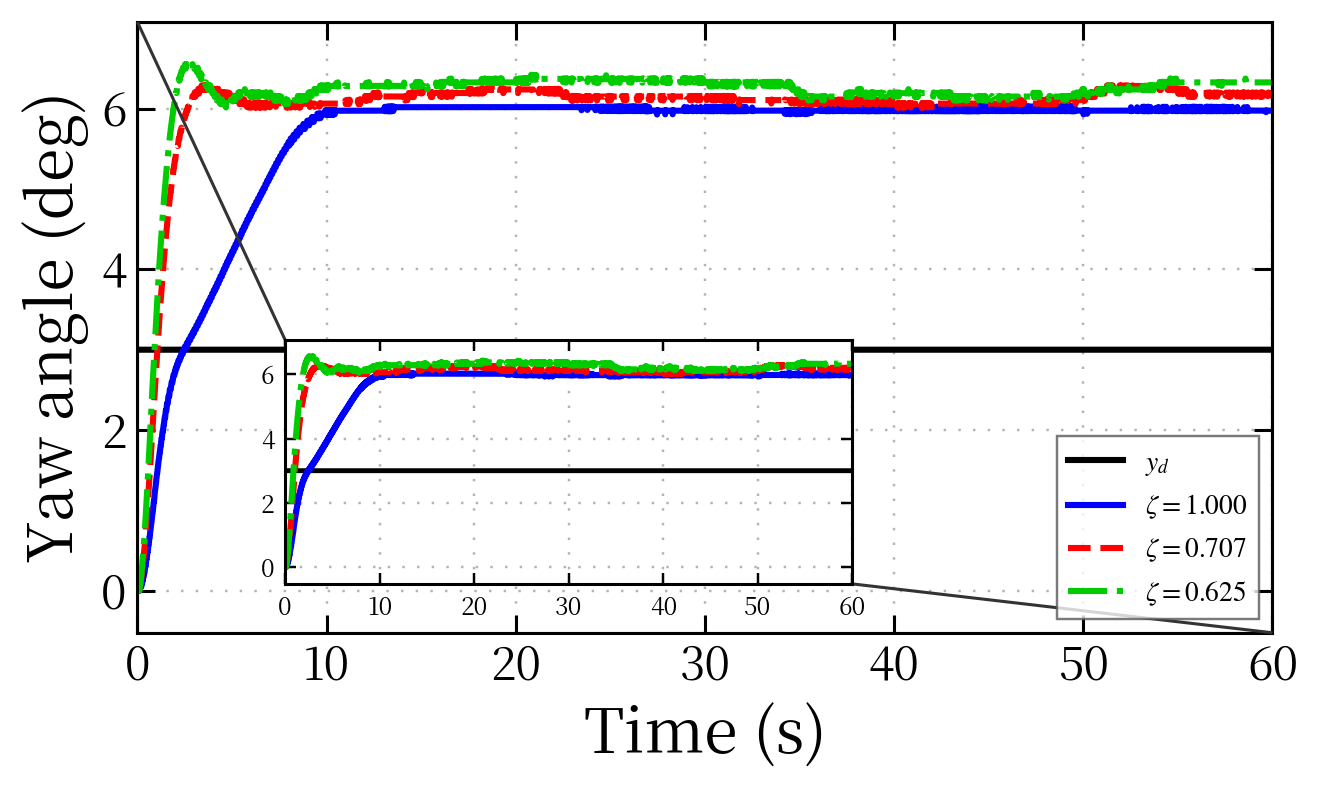
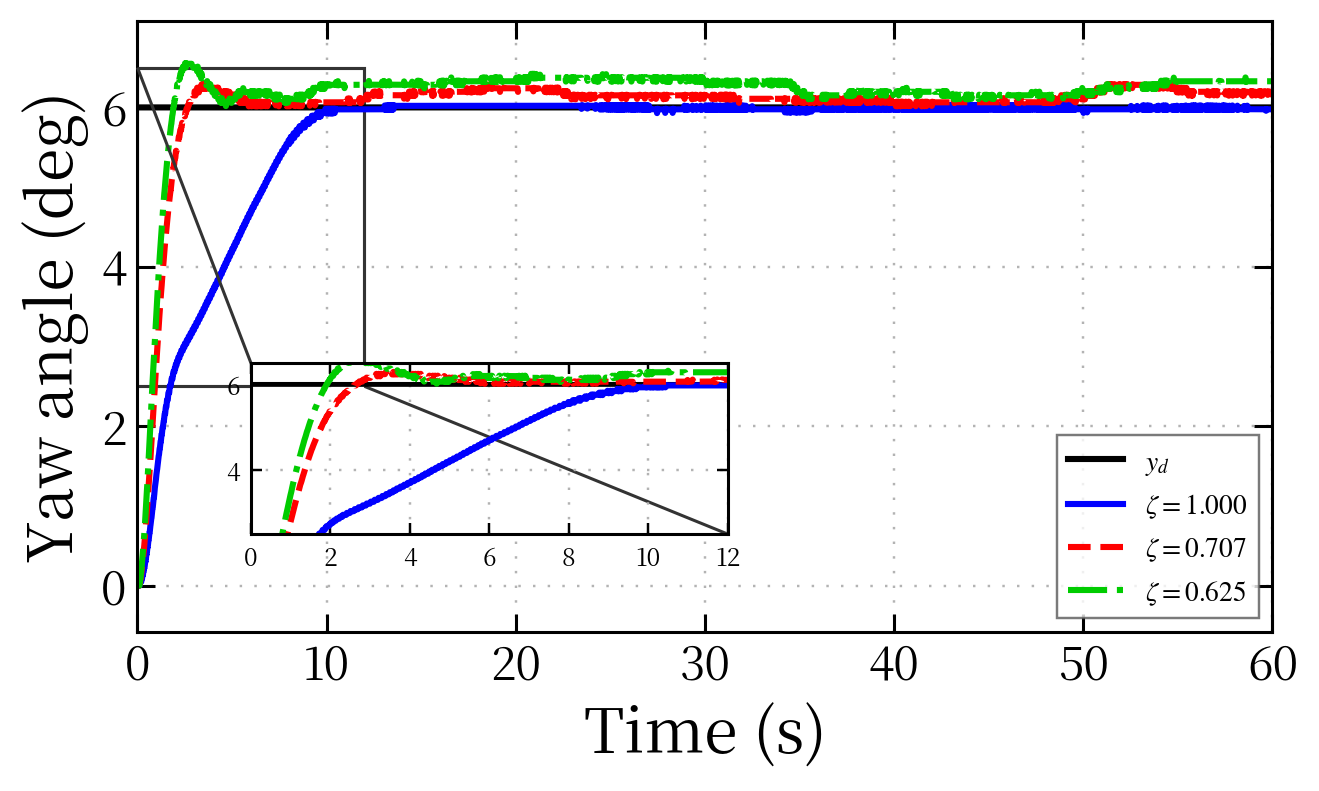
0406first_commited

diff --git a/hitbook/chinese/scripts/ch5_sat_exp_plot.py b/hitbook/chinese/scripts/ch5_sat_exp_plot.py
@@ -19,7 +19,8 @@ COLORS = {'1': '#0000FF', '0.707': '#FF0000', '0.625': '#00CC00'}
 LABELS = {'roll': 'Roll angle (deg)', 'pitch': 'Pitch angle (deg)', 'yaw': 'Yaw angle (deg)'}
 U_LABELS = {'roll': 'Roll control input (V)', 'pitch': 'Pitch control input (V)', 'yaw': 'Yaw control input (V)'}
 FOCUS_OVERRIDES = {
-    ('constant_sat', 'pitch', 'output'): {'window': (0.0, 10.8), 'y_bounds': (2.7, 5.4)},
+    ('constant_sat', 'pitch', 'output'): {'window': (0.0, 10.8), 'y_bounds': (2.7, 5.4), 'inset_rect': [0.10, 0.16, 0.42, 0.28]},
+    ('constant_sat', 'yaw', 'output'): {'window': (0.0, 12.0), 'y_bounds': (2.5, 6.5), 'inset_rect': [0.10, 0.16, 0.42, 0.28]},
 }
 DEFAULT_INSET_RECT = [0.13, 0.08, 0.50, 0.40]
 
@@ -53,7 +54,7 @@ def experimental_sine_reference(axis, t):
 
 def experimental_constant_reference(axis, t):
     if axis == 'yaw':
-        return np.full_like(t, 3.0)
+        return np.full_like(t, 6.0)
     if axis == 'pitch':
         return np.full_like(t, 5.0)
     if axis == 'roll':
@@ -182,6 +183,34 @@ def remap_time_segment(t, start_t, end_t, target_start, target_end):
 
 
 
+def paired_output_ylim(mode: str, axis: str):
+    all_series = []
+    for variant in ['base', 'sat']:
+        t, traces = load_axis(mode, variant, axis)
+        if mode == 'constant_sat':
+            y_ref = experimental_constant_reference(axis, t)
+        else:
+            y_ref = experimental_sine_reference(axis, t)
+        all_series.extend(list(traces.values()))
+        all_series.append(y_ref)
+    ymin = min(float(y.min()) for y in all_series)
+    ymax = max(float(y.max()) for y in all_series)
+    span = max(ymax - ymin, 1e-3)
+    return ymin - 0.08 * span, ymax + 0.08 * span
+
+
+def paired_control_ylim(mode: str, axis: str):
+    all_series = []
+    for variant in ['base', 'sat']:
+        _, traces = load_control(mode, variant, axis)
+        traces = scale_controls(traces, axis=axis, variant=variant)
+        all_series.extend(list(traces.values()))
+    ymin = min(float(y.min()) for y in all_series)
+    ymax = max(float(y.max()) for y in all_series)
+    span = max(ymax - ymin, 1e-3)
+    return ymin - 0.08 * span, ymax + 0.08 * span
+
+
 def pick_focus_window(mode: str, axis: str):
     t, base_traces = load_control(mode, 'base', axis)
     base_traces = scale_controls(base_traces, axis=axis, variant='base')
@@ -269,11 +298,8 @@ def plot_single(mode: str, axis: str, variant: str):
     for zeta_key, zeta_label in DAMPINGS:
         ax.plot(t, traces[zeta_key], label=fr'$\zeta={zeta_label}$', **styles[zeta_key])
     ax.set_xlim(0.0, t[-1])
-    series_for_limits = list(traces.values()) + ([y_ref] if y_ref is not None else [])
-    ymin = min(float(y.min()) for y in series_for_limits)
-    ymax = max(float(y.max()) for y in series_for_limits)
-    span = max(ymax - ymin, 1e-3)
-    ax.set_ylim(ymin - 0.08 * span, ymax + 0.08 * span)
+    ylow, yhigh = paired_output_ylim(mode, axis)
+    ax.set_ylim(ylow, yhigh)
     ax.set_xlabel('Time (s)')
     ax.set_ylabel(LABELS[axis])
     ax.grid(True, linestyle=(0, (1.0, 5.0)), color='0.7', linewidth=0.8)
@@ -319,21 +345,22 @@ def plot_control(mode: str, axis: str, variant: str):
     ax.axhline(SAT_LEVEL, color='black', linestyle=':', linewidth=1.4, label=r'$u_{\max}$')
     ax.axhline(-SAT_LEVEL, color='black', linestyle=':', linewidth=1.4)
     ax.set_xlim(0.0, t[-1])
-    ymin = min(float(y.min()) for y in traces.values())
-    ymax = max(float(y.max()) for y in traces.values())
-    span = max(ymax - ymin, 1e-3)
-    ax.set_ylim(ymin - 0.08 * span, ymax + 0.08 * span)
+    if axis == 'roll':
+        ax.set_ylim(-0.2, 0.55)
+    else:
+        ylow, yhigh = paired_control_ylim(mode, axis)
+        ax.set_ylim(ylow, yhigh)
     ax.set_xlabel('Time (s)')
     ax.set_ylabel(U_LABELS[axis])
     ax.grid(True, linestyle=(0, (1.0, 5.0)), color='0.7', linewidth=0.8)
     ax.tick_params(direction='in', length=6, width=1.0, top=True, right=True)
     leg = ax.legend(loc='lower right', frameon=True, fancybox=False, edgecolor='0.35')
     leg.get_frame().set_linewidth(0.8)
-    ax.text(0.03, 0.95, reference_label(axis), transform=ax.transAxes, va='top', ha='left',
-            bbox=dict(boxstyle='square,pad=0.20', fc='white', ec='0.35', lw=0.8), fontsize=10)
     if mode in ('constant_sat', 'sine_sat'):
-        focus_window = pick_focus_window(mode, axis)
-        add_focus_box_and_inset(ax, custom_t, traces, focus_window, yref=None, styles=styles, include_sat_lines=True)
+        override = FOCUS_OVERRIDES.get((mode, axis, 'output'))
+        focus_window = override['window'] if override else pick_focus_window(mode, axis)
+        inset_rect = override.get('inset_rect') if override else None
+        add_focus_box_and_inset(ax, custom_t, traces, focus_window, yref=None, styles=styles, include_sat_lines=True, inset_rect=inset_rect)
 
     mode_tag = 'const' if mode == 'constant_sat' else 'sine'
     out = OUT_DIR / f'ch5_{mode_tag}_{axis}_u_{variant}.png'

diff --git a/hitbook/chinese/scripts/ch5_exp2_plot.py b/hitbook/chinese/scripts/ch5_exp2_plot.py
@@ -94,6 +94,19 @@ def make_reference(mode: str, axis: str, t, traces):
     return experimental_sine_reference(axis, t)
 
 
+def paired_ylim(mode: str, axis: str):
+    all_series = []
+    for side in ['left', 'right']:
+        t, traces = load_column(mode, side, axis)
+        y_ref = make_reference(mode, axis, t, traces)
+        all_series.extend(list(traces.values()))
+        all_series.append(y_ref)
+    ymin = min(float(y.min()) for y in all_series)
+    ymax = max(float(y.max()) for y in all_series)
+    span = max(ymax - ymin, 1e-3)
+    return ymin - 0.08 * span, ymax + 0.08 * span
+
+
 def region_bounds(t, traces, window):
     t0, t1 = window
     mask = (t >= t0) & (t <= t1)
@@ -112,10 +125,8 @@ def plot_single(mode: str, side: str, axis: str):
     for label in ['1.000', '0.707', '0.625']:
         ax.plot(t, traces[label], label=fr'$\zeta={label}$', **STYLES[label])
     ax.set_xlim(0.0, float(t[-1]))
-    ymin = min(float(y.min()) for y in list(traces.values()) + [y_ref])
-    ymax = max(float(y.max()) for y in list(traces.values()) + [y_ref])
-    span = max(ymax - ymin, 1e-3)
-    ax.set_ylim(ymin - 0.08 * span, ymax + 0.08 * span)
+    ylow, yhigh = paired_ylim(mode, axis)
+    ax.set_ylim(ylow, yhigh)
     ax.set_xlabel('Time (s)')
     ax.set_ylabel(LABELS[axis])
     ax.grid(True, linestyle=(0, (1.0, 5.0)), color='0.7', linewidth=0.8)
